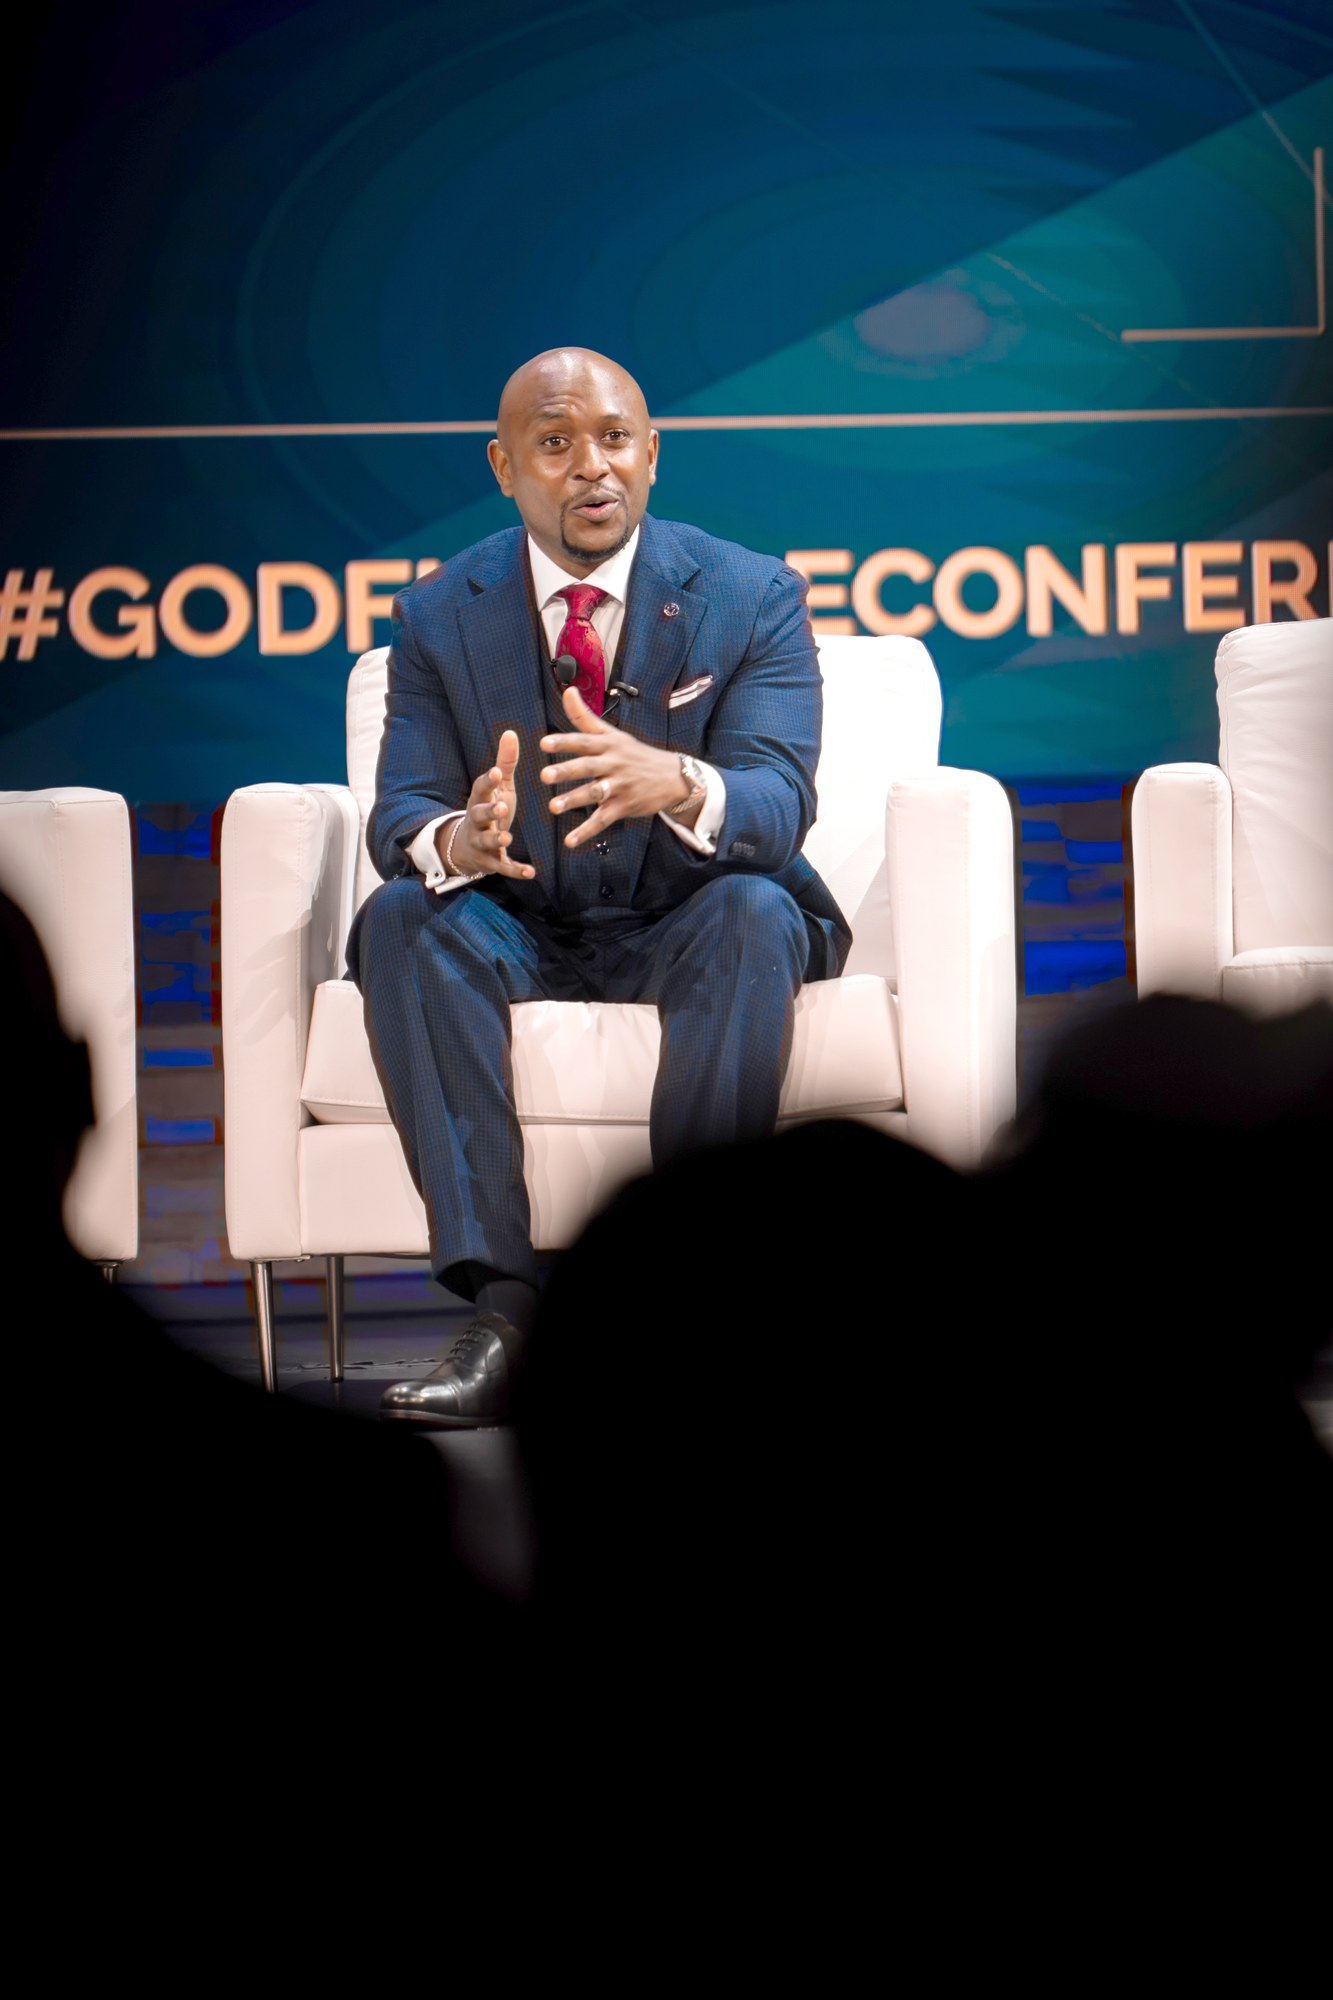
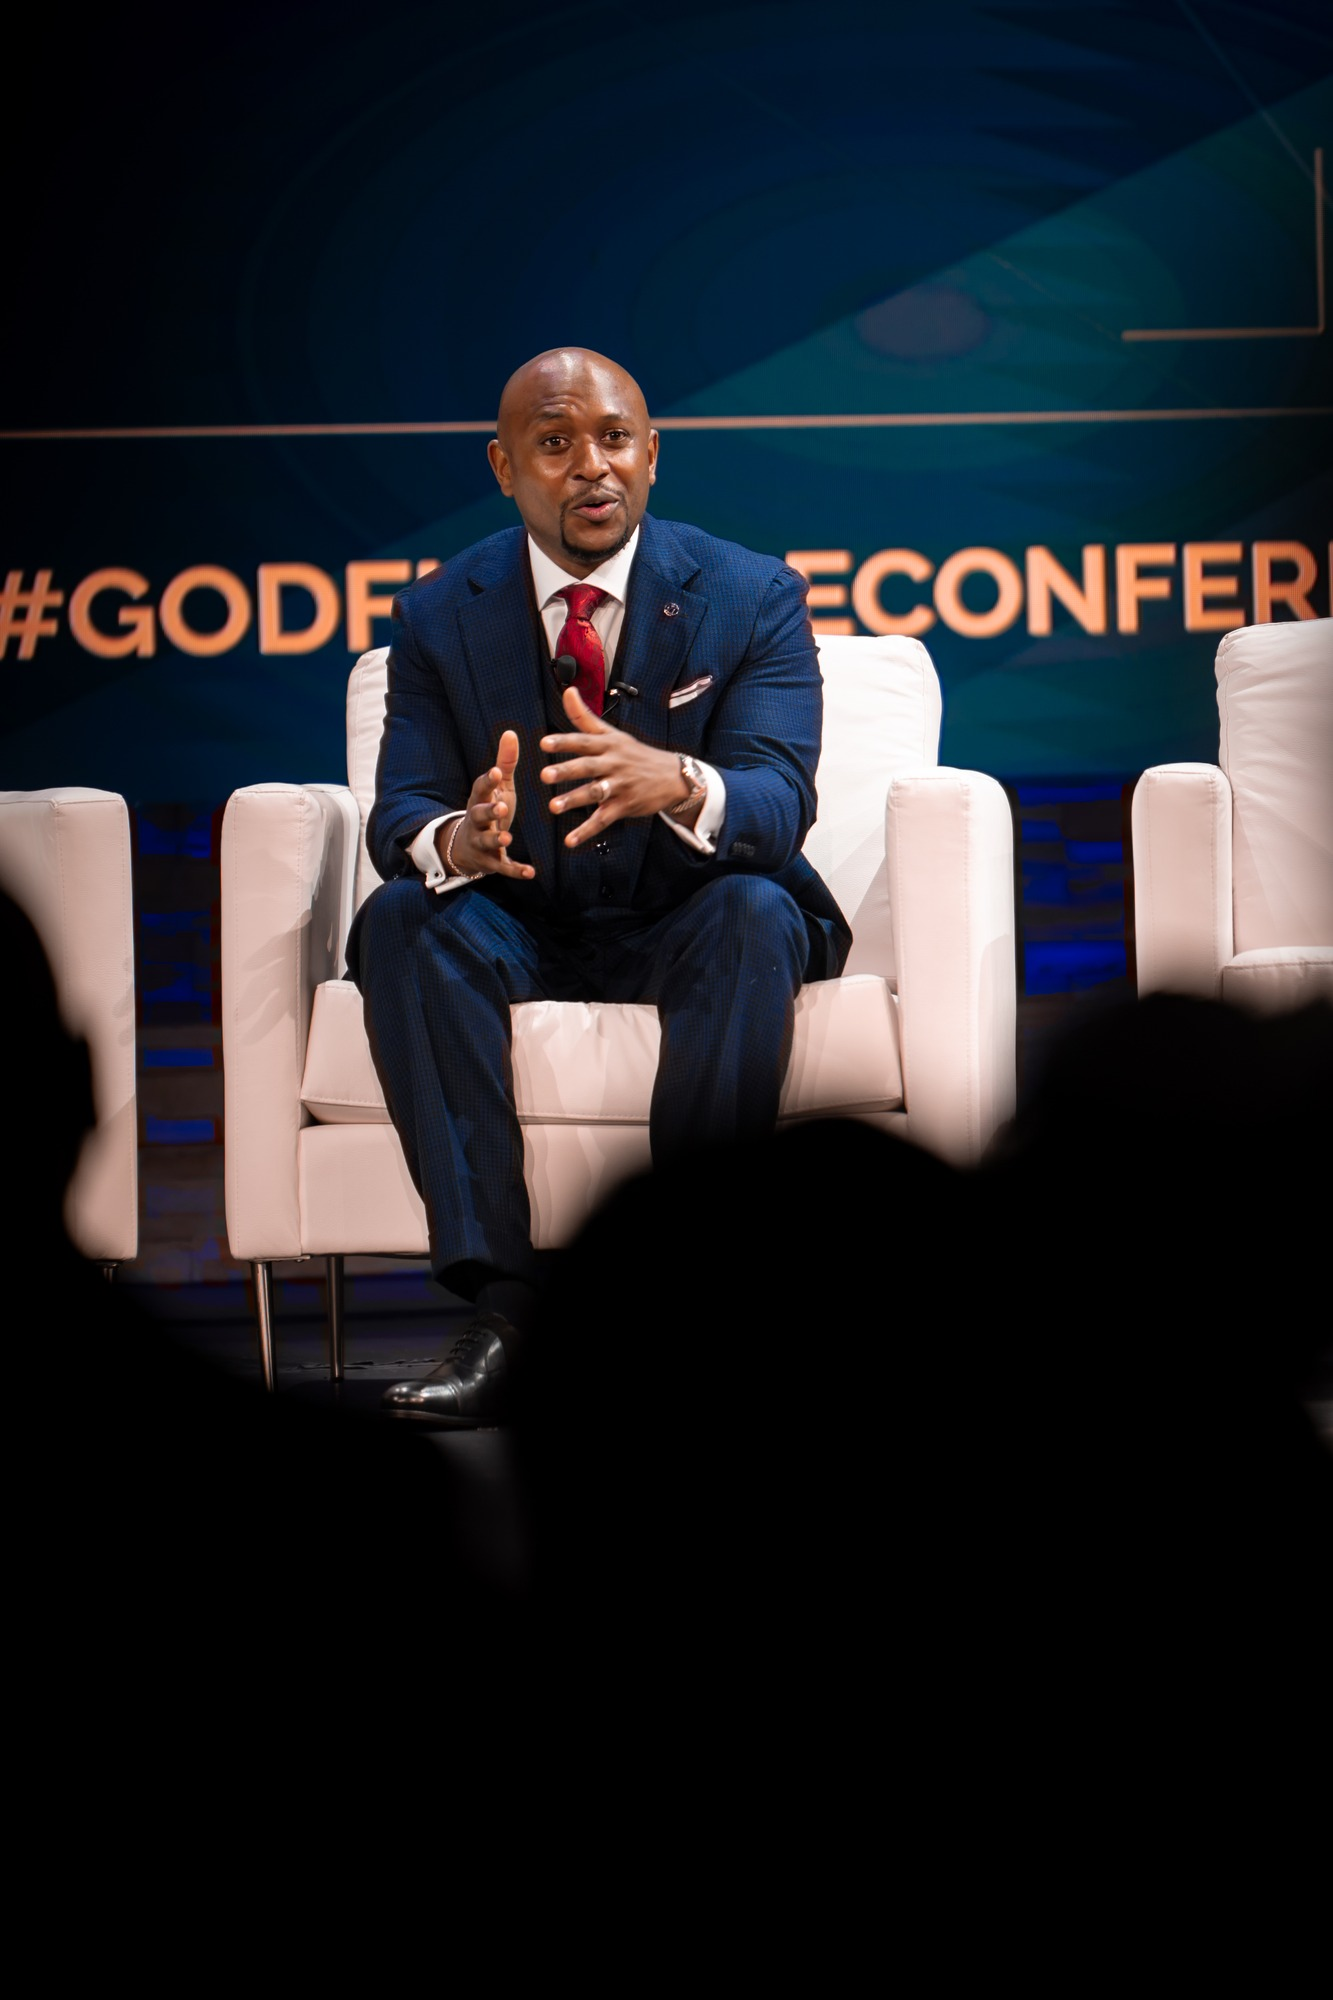
fix: restore the GODfidence frame to the original, and correct Chronixx role
The GODfidence plate had a gamma curve applied to it that it never
needed. It is a dark-stage frame where the crushed blacks are the look,
and lifting them turned the foreground silhouettes grey and pulled up
background noise. Re-exported straight from the camera original
(DSC03413.jpg, Sony A7 III, 27 June 2026) with resize as the only
operation: luminance is back to 36, matching the source exactly.

Chronixx tour role corrected to Creative Director, confirmed by Dwayne.
It had been an inference from the Gambia directing credit.

diff --git a/lib/timeline-data.ts b/lib/timeline-data.ts
@@ -412,7 +412,7 @@ export const CREDITS: CreditGroup[] = [
     note: "",
     credits: [
       { year: "2019", title: "Lauryn Hill, tour", role: "Creative Director" },
-      { year: "2018", title: "Chronixx, tour", role: "Director, Videographer" },
+      { year: "2018", title: "Chronixx, tour", role: "Creative Director" },
     ],
   },
   {
